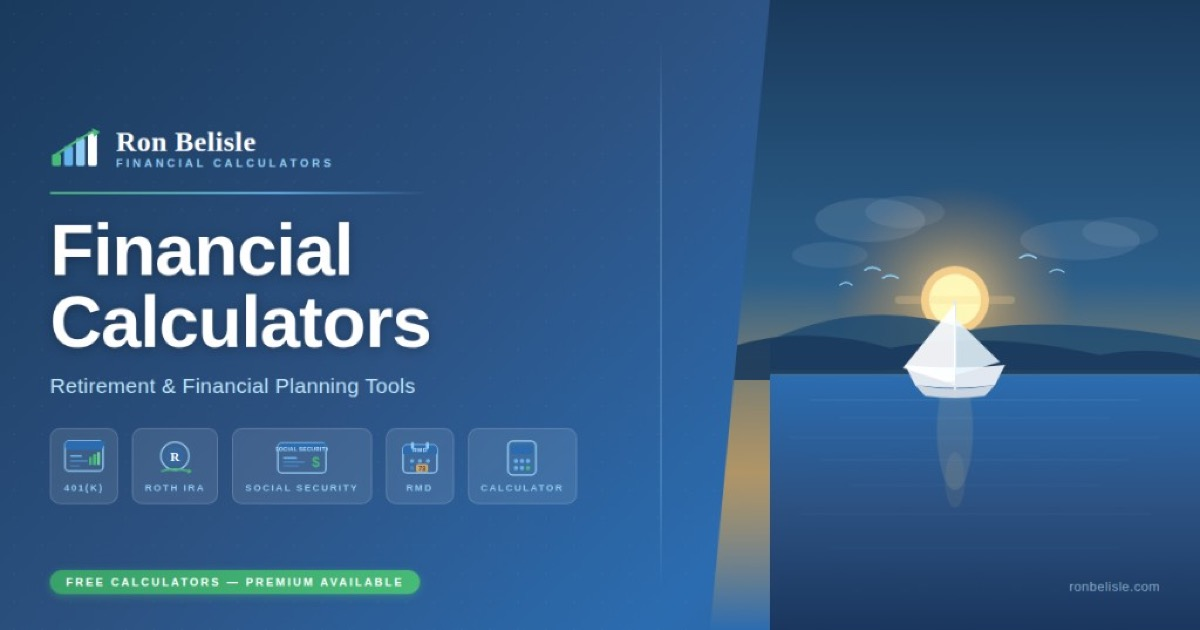
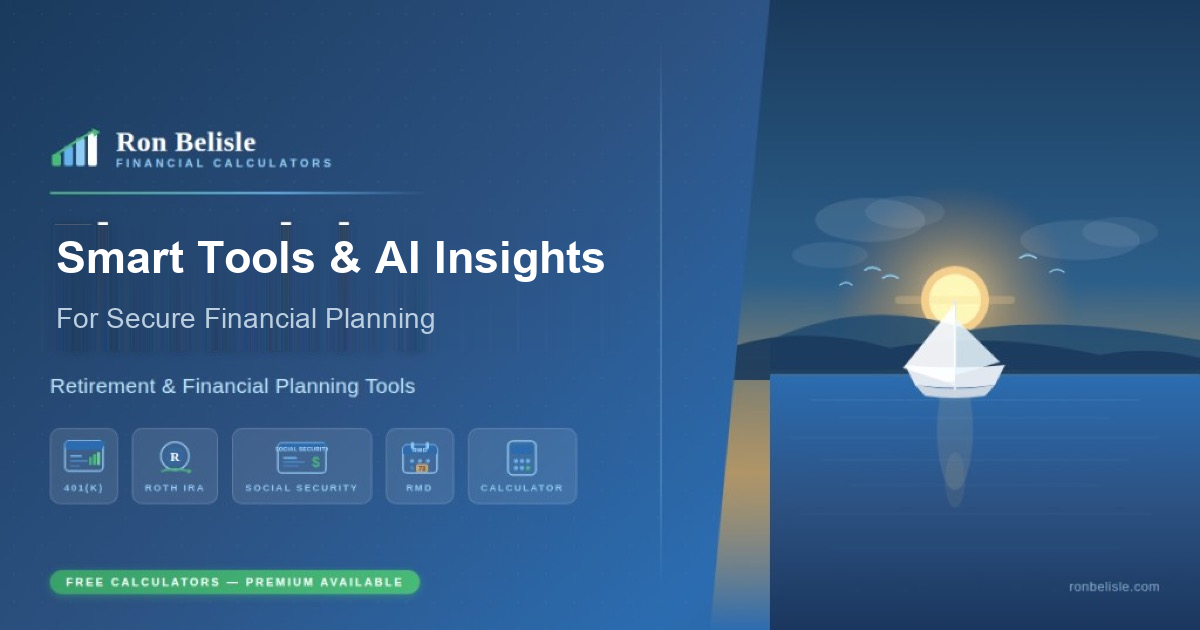
Update social share preview image for expanded site branding.
Refresh og-default artwork and alt text to highlight Smart Tools & AI Insights while preserving the existing sailboat layout.

Changed region(s): [[0.0308, 0.3317, 0.5242, 0.573]]

diff --git a/tools/update_og_default_image.py b/tools/update_og_default_image.py
@@ -1,0 +1,81 @@
+#!/usr/bin/env python3
+"""Regenerate og-default share image text layers from the existing raster base."""
+
+from __future__ import annotations
+
+from pathlib import Path
+
+from PIL import Image, ImageDraw, ImageFont
+
+ROOT = Path(__file__).resolve().parents[1]
+SOURCE = ROOT / "images" / "og-default.base.png"
+OUT_PNG = ROOT / "images" / "og-default.png"
+OUT_JPG = ROOT / "images" / "og-default.jpg"
+
+HEADLINE = "Smart Tools & AI Insights"
+SUBHEAD = "For Secure Financial Planning"
+
+# Left content column only; preserve sailboat illustration on the right.
+REPAIR_LEFT = 40
+REPAIR_RIGHT = 620
+REPAIR_TOP = 225
+REPAIR_BOTTOM = 350
+REF_TOP = 220
+REF_BOTTOM = 350
+
+
+def restore_background(image: Image.Image) -> None:
+    pixels = image.load()
+    span = REF_BOTTOM - REF_TOP
+    for y in range(REPAIR_TOP, REPAIR_BOTTOM):
+        t = (y - REF_TOP) / span
+        for x in range(REPAIR_LEFT, REPAIR_RIGHT):
+            top = pixels[x, REF_TOP]
+            bottom = pixels[x, REF_BOTTOM]
+            pixels[x, y] = tuple(
+                int(top[i] * (1 - t) + bottom[i] * t) for i in range(3)
+            )
+
+
+def load_font(path: str, size: int) -> ImageFont.FreeTypeFont:
+    return ImageFont.truetype(path, size=size)
+
+
+def fit_headline_font(
+    draw: ImageDraw.ImageDraw, text: str, max_width: int
+) -> ImageFont.FreeTypeFont:
+    font_path = "/System/Library/Fonts/Supplemental/Arial Bold.ttf"
+    for size in range(46, 28, -1):
+        font = load_font(font_path, size)
+        width = draw.textlength(text, font=font)
+        if width <= max_width:
+            return font
+    return load_font(font_path, 28)
+
+
+def main() -> None:
+    image = Image.open(SOURCE).convert("RGB")
+    if image.size != (1200, 630):
+        image = image.resize((1200, 630), Image.Resampling.LANCZOS)
+
+    restore_background(image)
+    draw = ImageDraw.Draw(image)
+
+    headline_font = fit_headline_font(draw, HEADLINE, max_width=560)
+    sub_font = load_font("/System/Library/Fonts/Supplemental/Arial.ttf", 28)
+
+    headline_x = 56
+    headline_y = 232
+    sub_x = 56
+    sub_y = 302
+
+    draw.text((headline_x, headline_y), HEADLINE, fill=(255, 255, 255), font=headline_font)
+    draw.text((sub_x, sub_y), SUBHEAD, fill=(186, 206, 224), font=sub_font)
+
+    image.save(OUT_PNG, format="PNG", optimize=True)
+    image.save(OUT_JPG, format="JPEG", quality=92, optimize=True, progressive=True)
+    print(f"Wrote {OUT_PNG} and {OUT_JPG}")
+
+
+if __name__ == "__main__":
+    main()

diff --git a/index.php b/index.php
@@ -61,7 +61,7 @@ $seo_description = "Free retirement and financial calculators: 401(k) on track, 
 $seo_url = rb_seo_public_url();
 $seo_site_name = "Ron Belisle Financial Calculators";
 $seo_og_image = rb_seo_site_base_url() . '/images/og-default.jpg';
-$seo_og_image_alt = 'Ron Belisle Financial Calculators — retirement and financial planning tools';
+$seo_og_image_alt = 'Ron Belisle — Smart Tools & AI Insights for secure financial planning';
 ?>
 <!DOCTYPE html>
 <html lang="en">

diff --git a/includes/og-twitter-meta.php b/includes/og-twitter-meta.php
@@ -5,6 +5,7 @@
  * Optional: $og_image (absolute URL), $og_image_alt, $og_site_name
  *
  * Default share image: /images/og-default.jpg (1200×630 JPEG; also keep og-default.png if needed).
+ * Source/master artwork: /images/og-default.base.png — regenerate with tools/update_og_default_image.py
  */
 require_once __DIR__ . '/seo_public_url.php';
 if (empty($og_title)) $og_title = '';